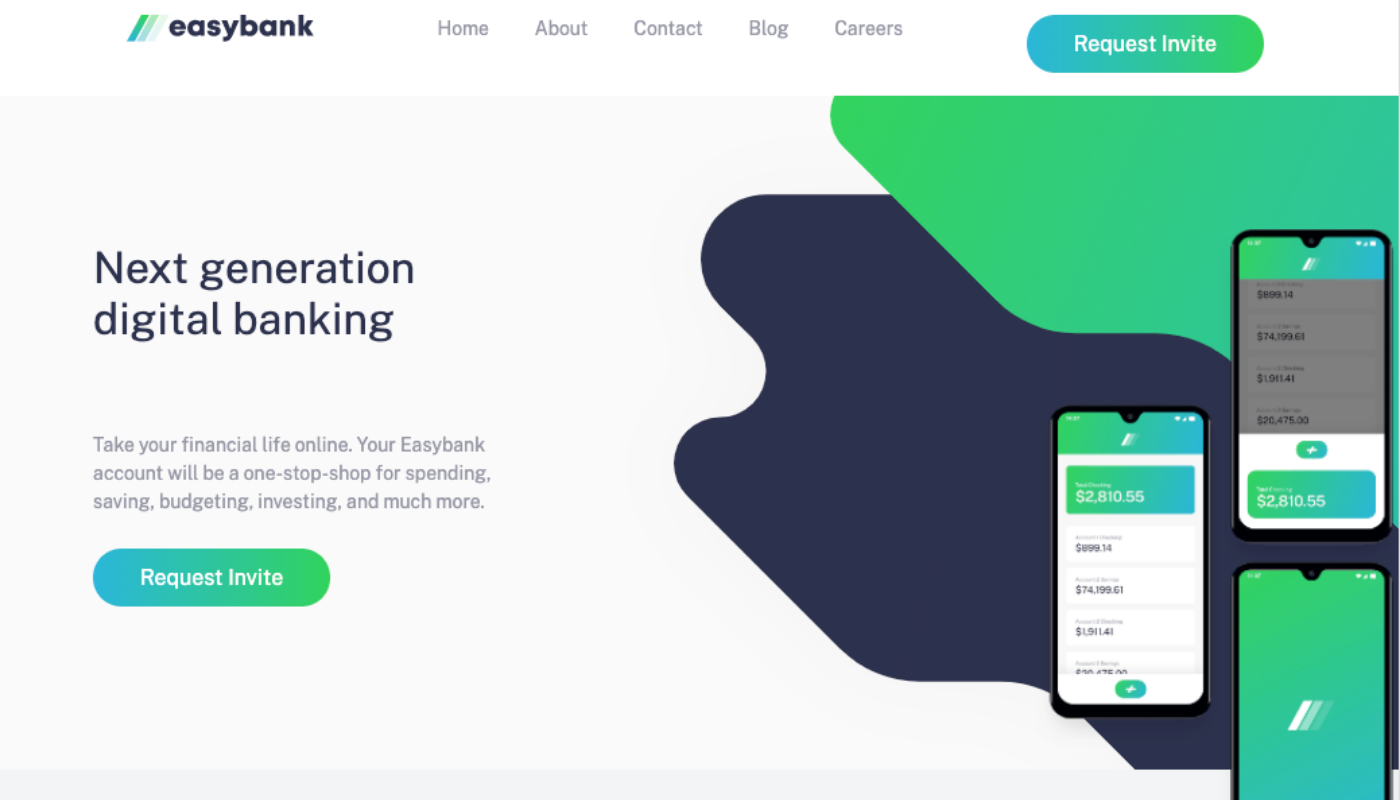
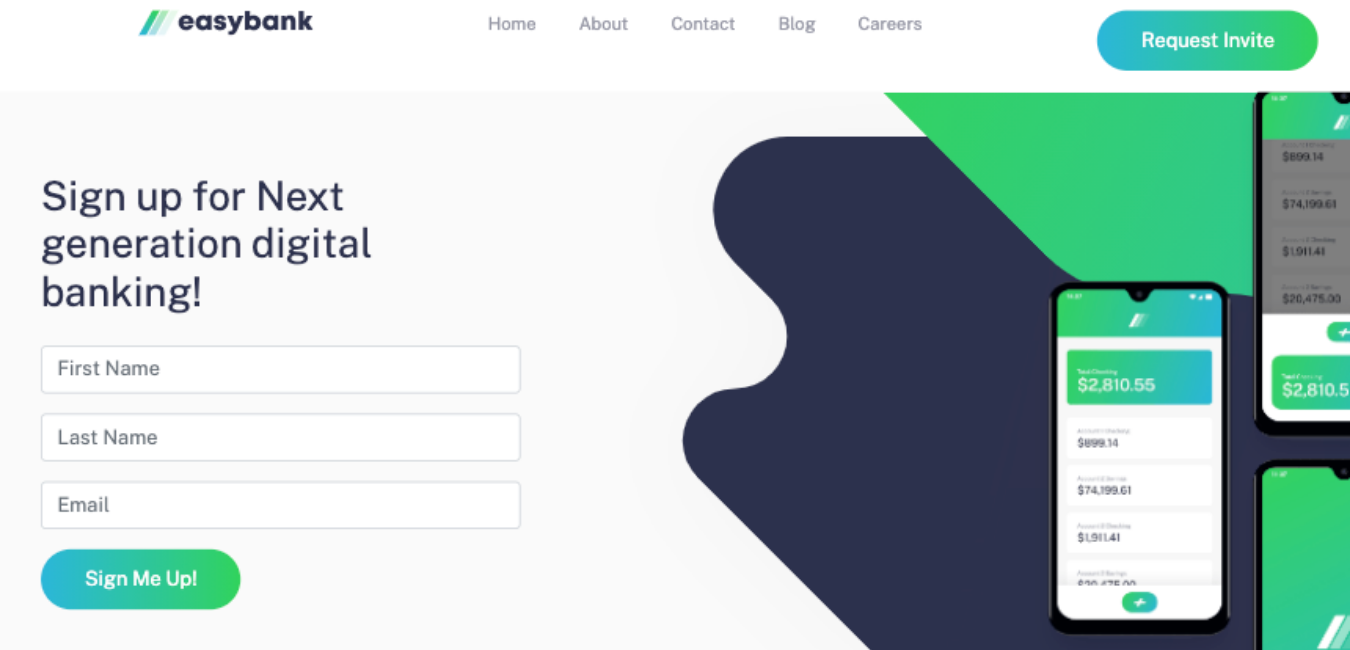
add easy bank sign up page to project section

diff --git a/index.html b/index.html
@@ -127,10 +127,10 @@
               <span>Creating from scratch:</span> One of my favourite pastimes
               is cooking—I love being able to create something beautiful from
               nothing. Of course, cooking also requires a keen attention to
-              detail, and a lot of patience(imagine me julienning a box of
-              shallots for example). Luckily, as a cook with comprehensive
-              experience at five-star hotels in Toronto, I have cultivated both
-              of those qualities!
+              detail, and a lot of patience(imagine me slicing a box of shallots
+              for example). Luckily, as a cook with comprehensive experience at
+              five-star hotels in Toronto, I have cultivated both of those
+              qualities!
             </p>
 
             <p class="aboutMe">
@@ -141,8 +141,8 @@
               I am curious. Being curious takes energy, dedication, intellectual
               effort, and the potential embarrassment of not knowing the answers
               to all questions. But by putting curiosity at the heart of
-              everything I do, I believe I can learn, grow, and
-              <span id="hightlight">connect</span> in any situation in life.
+              everything I do, I believe I can learn, grow, and make strong
+              connections with people.
             </p>
 
             <a href="/dist/nicolenam.pdf" id="cvBtn" target="_blank"
@@ -171,6 +171,7 @@
             <li><i class="fab fa-css3-alt"></i>CSS</li>
             <li><i class="fab fa-sass"></i>SASS</li>
             <li><i class="fab fa-js-square"></i>Javascript</li>
+            <li><i class="fab fa-node-js"></i>Node-js</li>
             <li><i class="devicon-bootstrap-plain"></i>Bootstrap</li>
             <li><i class="devicon-jquery-plain"></i>jQuery</li>
             <li><i class="fab fa-php"></i>PHP</li>
@@ -203,7 +204,7 @@
                 <a href="#" data-filter=".frontend">Frontend</a>
               </li>
               <li>
-                <a href="#" data-filter=".wordpress">Wordpress</a>
+                <a href="#" data-filter=".backend">Backend</a>
               </li>
               <li>
                 <a href="#" data-filter=".design">Design</a>
@@ -212,10 +213,83 @@
           </div>
           <div class="itemsContainer">
             <ul class="items">
-              <li
-                onclick=""
-                class="frontend col-xs-6 col-sm-6 col-lg-4"
-              >
+              <li onclick="" class="frontend col-xs-6 col-sm-6 col-lg-4">
+                <div class="item">
+                  <img
+                    src="/img/portfolio/thumbnails/aloha-square.png"
+                    alt="loop studio"
+                  />
+                  <div class="icons">
+                    <a
+                      href="img/portfolio/aloha.png"
+                      title="View image"
+                      class="openBtn"
+                      data-fancybox
+                      data-caption="Aloha Apparel e-Commerce Website."
+                      ><i class="fa fa-search"></i
+                    ></a>
+                    <a
+                      href="https://nicole-nam.github.io/aloha/"
+                      target="_blank"
+                      class="projectLink"
+                      ><i class="fa fa-link"></i
+                    ></a>
+                  </div>
+                  <div class="imageOverlay">
+                    <div class="description">
+                      <p>
+                        A fully responsive e-Commerce website for Aloha Apparel.
+                        Add items to your cart to see the number of items change
+                        above the cart icon.
+                      </p>
+                    </div>
+                    <div class="techList">
+                      <p class="tech">HTML</p>
+                      <p class="tech">SCSS</p>
+                      <p class="tech">JS</p>
+                    </div>
+                  </div>
+                </div>
+              </li>
+              <li onclick="" class="backend col-xs-6 col-sm-6 col-lg-4">
+                <div class="item">
+                  <img
+                    src="/img/portfolio/thumbnails/easy-square.png"
+                    alt="loop studio"
+                  />
+                  <div class="icons">
+                    <a
+                      href="img/portfolio/easy.png"
+                      title="View image"
+                      class="openBtn"
+                      data-fancybox
+                      data-caption="Easybank Signup landing page."
+                      ><i class="fa fa-search"></i
+                    ></a>
+                    <a
+                      href=" https://banana-custard-04718.herokuapp.com/"
+                      target="_blank"
+                      class="projectLink"
+                      ><i class="fa fa-link"></i
+                    ></a>
+                  </div>
+                  <div class="imageOverlay">
+                    <div class="description">
+                      <p>
+                        This is newsletter app built for Easybank landing page,
+                        that can be used for E-mail Marketing. It collects user
+                        data using Mailchimp API, and is deployed with Heroku.
+                      </p>
+                    </div>
+                    <div class="techList">
+                      <p class="tech">HTML</p>
+                      <p class="tech">SCSS</p>
+                      <p class="tech">NODE JS</p>
+                    </div>
+                  </div>
+                </div>
+              </li>
+              <li onclick="" class="frontend col-xs-6 col-sm-6 col-lg-4">
                 <div class="item">
                   <img
                     src="/img/portfolio/thumbnails/loop-square.png"
@@ -250,10 +324,7 @@
                   </div>
                 </div>
               </li>
-              <li
-                onclick=""
-                class="frontend col-xs-6 col-sm-6  col-lg-4"
-              >
+              <li onclick="" class="frontend col-xs-6 col-sm-6 col-lg-4">
                 <div class="item">
                   <img
                     src="/img/portfolio/thumbnails/insure-square.png"
@@ -288,10 +359,7 @@
                   </div>
                 </div>
               </li>
-              <li
-                onclick=""
-                class="frontend col-xs-6 col-sm-6 col-lg-4"
-              >
+              <li onclick="" class="frontend col-xs-6 col-sm-6 col-lg-4">
                 <div class="item">
                   <img
                     src="/img/portfolio/thumbnails/keeper-square.png"
@@ -326,10 +394,8 @@
                   </div>
                 </div>
               </li>
-              <li
-                onclick=""
-                class="frontend col-xs-6 col-sm-6  col-lg-4"
-              >
+
+              <li onclick="" class="frontend col-xs-6 col-sm-6 col-lg-4">
                 <div class="item">
                   <img
                     src="/img/portfolio/thumbnails/countries-square.png"
@@ -366,10 +432,7 @@
                   </div>
                 </div>
               </li>
-              <li
-                onclick=""
-                class="frontend col-xs-6 col-sm-6  col-lg-4"
-              >
+              <li onclick="" class="frontend col-xs-6 col-sm-6 col-lg-4">
                 <div class="item">
                   <img
                     src="/img/portfolio/thumbnails/random-square.png"
@@ -406,10 +469,7 @@
                   </div>
                 </div>
               </li>
-              <li
-                onclick=""
-                class="frontend col-xs-6 col-sm-6  col-lg-4"
-              >
+              <li onclick="" class="frontend col-xs-6 col-sm-6 col-lg-4">
                 <div class="item">
                   <img
                     src="/img/portfolio/thumbnails/weather-square.png"
@@ -524,44 +584,6 @@
                       <p class="tech">HTML</p>
                       <p class="tech">SCSS</p>
                       <p class="tech">REACT JS</p>
-                    </div>
-                  </div>
-                </div>
-              </li>
-              <li onclick="" class="frontend col-xs-6 col-sm-6 col-lg-4">
-                <div class="item">
-                  <img
-                    src="/img/portfolio/thumbnails/aloha-square.png"
-                    alt="loop studio"
-                  />
-                  <div class="icons">
-                    <a
-                      href="img/portfolio/aloha.png"
-                      title="View image"
-                      class="openBtn"
-                      data-fancybox
-                      data-caption="Aloha Apparel e-Commerce Website."
-                      ><i class="fa fa-search"></i
-                    ></a>
-                    <a
-                      href="https://nicole-nam.github.io/aloha/"
-                      target="_blank"
-                      class="projectLink"
-                      ><i class="fa fa-link"></i
-                    ></a>
-                  </div>
-                  <div class="imageOverlay">
-                    <div class="description">
-                      <p>
-                        A fully responsive e-Commerce website for Aloha Apparel.
-                        Add items to your cart to see the number of items change
-                        above the cart icon.
-                      </p>
-                    </div>
-                    <div class="techList">
-                      <p class="tech">HTML</p>
-                      <p class="tech">SCSS</p>
-                      <p class="tech">JS</p>
                     </div>
                   </div>
                 </div>
